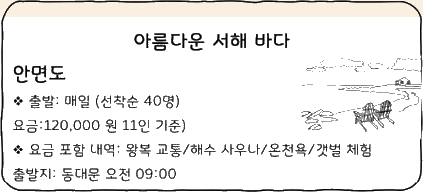
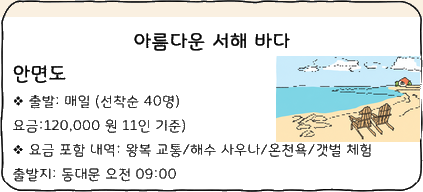
SET11: colourise Q12 flyer illustration

Changed region(s): [[0.6454, 0.2812, 1.0, 0.75]]

diff --git a/ubt-new/sets/2025_SET11/data.js b/ubt-new/sets/2025_SET11/data.js
@@ -1,1 +1,1 @@
-UBT.set({"tag":"2025_SET11","title":"វិញ្ញាសាទី ១១","questions":[{"n":1,"prompt":"다음 그림을 보고 맞는 단어나 문장을 고르십시오.","body":"","options":[{"kind":"text","text":"바구니입니다.","art":null},{"kind":"text","text":"마대입니다.","art":null},{"kind":"text","text":"비닐 봉투입니다.","art":null},{"kind":"text","text":"종량제 봉투입니다.","art":null}],"a":2,"art":"q/01_stem.png?v=cba314088ba745d8"},{"n":2,"prompt":"다음 그림을 보고 맞는 단어나 문장을 고르십시오.","body":"","options":[{"kind":"text","text":"굴착기로 흙을 파고 있습니다.","art":null},{"kind":"text","text":"굴착기로 흙을 쌓고 있습니다.","art":null},{"kind":"text","text":"지게차로 흙을 파고 있습니다.","art":null},{"kind":"text","text":"지게차로 흙을 쌓고 있습니다.","art":null}],"a":2,"art":"q/02_stem.png?v=a890930f47af4b02"},{"n":3,"prompt":"다음 질문에 답하십시오.","body":"다음 단어와 관계있는 것은 고르십시오.\n음담패설","options":[{"kind":"text","text":"성범죄","art":null},{"kind":"text","text":"성인식","art":null},{"kind":"text","text":"성상담","art":null},{"kind":"text","text":"성교육","art":null}],"a":1,"art":null},{"n":4,"prompt":"다음 질문에 답하십시오.","body":"다음 단어의 반댓말은 무엇입니까?\n분리하다","options":[{"kind":"text","text":"분류하다","art":null},{"kind":"text","text":"혼합하다","art":null},{"kind":"text","text":"확대하다","art":null},{"kind":"text","text":"적합하다","art":null}],"a":2,"art":null},{"n":5,"prompt":"빈칸에 들어갈 가장 알맞은 것을 고르십시오.","body":"직장 동료에게 농담을 했습니다. 그런데 내 농담을 듣고 직장 동료의 ________이/가 안 좋았습니다. 내 농담이 불쾌하다고 해서 빨리 사과했습니다.","options":[{"kind":"text","text":"얼굴","art":null},{"kind":"text","text":"표정","art":null},{"kind":"text","text":"안색","art":null},{"kind":"text","text":"성격","art":null}],"a":2,"art":null},{"n":6,"prompt":"빈칸에 들어갈 가장 알맞은 것을 고르십시오.","body":"친구한테 빌린 돈을 갚으려고 통장을 ______ 잔액이 부족했습니다. 그래서 이번 달 월급을 받으면 갚기로 했습니다.","options":[{"kind":"text","text":"조회해 보니","art":null},{"kind":"text","text":"대출해 보니","art":null},{"kind":"text","text":"조회하고 나서","art":null},{"kind":"text","text":"대출하고 나서","art":null}],"a":4,"art":null},{"n":7,"prompt":"빈칸에 들어갈 가장 알맞은 것을 고르십시오.","body":"등산은 한국 사람들이 즐겨 하는 ______ 활동입니다. 주말이나 휴일에 가까운 산으로 등산하러 가는 사람들을 많이 볼 수 있습니다.","options":[{"kind":"text","text":"기념","art":null},{"kind":"text","text":"직업","art":null},{"kind":"text","text":"회식","art":null},{"kind":"text","text":"여가","art":null}],"a":4,"art":null},{"n":8,"prompt":"빈칸에 들어갈 가장 알맞은 것을 고르십시오.","body":"이번 일요일에 집에서 해야 할 일이 많습니다. 제일 먼저 침대가 ______.","options":[{"kind":"text","text":"오래되니까","art":null},{"kind":"text","text":"오래되다가","art":null},{"kind":"text","text":"사용되니까","art":null},{"kind":"text","text":"사용되다가","art":null}],"a":1,"art":null},{"n":9,"prompt":"다음 질문에 답하십시오.","body":"밑줄 친 부분이 맞는 문장을 고르십시오.","options":[{"kind":"text","text":"지하철을 타서 회사에 출근해요.","art":null,"marks":[{"type":"underline","start":5,"end":7}]},{"kind":"text","text":"술을 마셔서 운전할 줄 몰라요.","art":null,"marks":[{"type":"underline","start":7,"end":16}]},{"kind":"text","text":"한국어를 배우려고 센터에 가세요.","art":null,"marks":[{"type":"underline","start":5,"end":9}]},{"kind":"text","text":"미술관에 음식물을 반입할 수 없어요.","art":null,"marks":[{"type":"underline","start":10,"end":19}]}],"a":4,"art":null},{"n":10,"prompt":"다음 질문에 답하십시오.","body":"이 표지는 무슨 뜻입니까?\n술에 취한 사람은 들어가지 마세요.","options":[{"kind":"picture","text":"","art":"q/10_o1.png?v=3014f0a62c2a1527"},{"kind":"picture","text":"","art":"q/10_o2.png?v=1e692d0e1a30ca7a"},{"kind":"picture","text":"","art":"q/10_o3.png?v=bec58bc3f053acbe"},{"kind":"picture","text":"","art":"q/10_o4.png?v=42d220e2ef981381"}],"a":1,"art":null},{"n":11,"prompt":"다음 질문에 답하십시오.","body":"다음 그래프에 대한 가장 알맞은 것을 고르십시오.","options":[{"kind":"text","text":"아파트에 사는 사람이 많지 않습니다.","art":null},{"kind":"text","text":"기숙사에 사는 사람들이 두 번째 적습니다.","art":null},{"kind":"text","text":"자취방과 아파트에 사는 사람이 거의 같습니다.","art":null},{"kind":"text","text":"아파트에 사는 사람들이 절반 넘지 않습니다.","art":null}],"a":4,"art":"q/11_stem.png?v=cf201e39615e49e4"},{"n":12,"prompt":"다음 질문에 답하십시오.","body":"다음 글을 읽고 내용과 같은 것을 고르십시오.","options":[{"kind":"text","text":"이 상품은 외국인들을 위해 만 가능합니다.","art":null},{"kind":"text","text":"40명이 같이 출발하면 120,000원 내야 합니다.","art":null},{"kind":"text","text":"갯벌 체험하고 온천 물로 목욕할 수 있습니다.","art":null},{"kind":"text","text":"동대문에서 오후 9시에 안면도로 출발합니다.","art":null}],"a":3,"art":"q/12_stem.png?v=a2f33c8c388fabfa"},{"n":13,"prompt":"빈칸에 들어갈 가장 알맞은 것을 고르십시오.","body":"내일은 한국 식당에서 저녁을 먹으러 ______ 같이 갈까요?","options":[{"kind":"text","text":"팔 건데","art":null},{"kind":"text","text":"파는 대신에","art":null},{"kind":"text","text":"가는 대신에","art":null},{"kind":"text","text":"갈 건데","art":null}],"a":4,"art":null},{"n":14,"prompt":"빈칸에 들어갈 가장 알맞은 것을 고르십시오.","body":"저는 한국 사람이지만 영국에서 ______. 그래서 한국어와 영어를 모두 잘합니다.","options":[{"kind":"text","text":"살고 싶습니다","art":null},{"kind":"text","text":"사는 것 같습니다","art":null},{"kind":"text","text":"살고 있습니다","art":null},{"kind":"text","text":"사면 됩니다","art":null}],"a":3,"art":null},{"n":15,"prompt":"다음 글을 읽고 무엇에 대한 글인지 고르십시오.","body":"다음 글을 읽고 무엇에 대한 글인지 고르십시오.\n몽골의 전통집은 '게르'라고 합니다. '게르'는 나무로 벽을 세우고, 그 위에 가죽으로 만든 '펠트'를 씌워서 만든 집입니다. '게르'는 겨울에는 바람을 막아 주어서 따뜻하고, 여름에는 햇빛을 막아 주어서 시원합니다.","options":[{"kind":"text","text":"가죽","art":null},{"kind":"text","text":"주거","art":null},{"kind":"text","text":"나무","art":null},{"kind":"text","text":"시설","art":null}],"a":2,"art":null},{"n":16,"prompt":"다음 글을 읽고 무엇에 대한 글인지 고르십시오.","body":"다음 글을 읽고 무엇에 대한 글인지 고르십시오.\n몽골의 전통집은 '게르'라고 합니다. '게르'는 나무로 벽을 세우고, 그 위에 가죽으로 만든 '펠트'를 씌워서 만든 집입니다. '게르'는 겨울에는 바람을 막아 주어서 따뜻하고, 여름에는 햇빛을 막아 주어서 시원합니다.","options":[{"kind":"text","text":"가죽","art":null},{"kind":"text","text":"주거","art":null},{"kind":"text","text":"나무","art":null},{"kind":"text","text":"시설","art":null}],"a":3,"art":null},{"n":17,"prompt":"다음 글을 읽고 내용과 같은 것을 고르십시오.","body":"한국은 아시아 동쪽의 한반도에 있습니다. 한반도의 북쪽에 중국과 러시아가 있고 동쪽에 있는 바다를 건너면 일본이 있습니다. 한국의 다른 이름은 대한민국이고 수도는 서울입니다. 서울은 한반도의 중심에 있습니다. 인구는 오천만 명 정도인데 천만 명 정도가 서울에 삽니다. 한국에는 산이 많습니다. 한국의 70%가 산이지만 산의 높이가 아주 높지는 않습니다.","options":[{"kind":"text","text":"한국의 수도는 대한민국입니다.","art":null},{"kind":"text","text":"한국에는 높은 산이 아주 많습니다.","art":null},{"kind":"text","text":"한국은 아시아 북쪽에 있습니다.","art":null},{"kind":"text","text":"한국에는 약 오천만 명이 삽니다.","art":null}],"a":4,"art":null},{"n":18,"prompt":"다음 글을 읽고 내용과 같은 것을 고르십시오.","body":"한국에는 막걸리와 소주 두 가지 유명한 술이 있어요. 막걸리는 쌀과 물을 섞어서 만든 부드럽고 가벼운 맛이에요. 발효 과정으로 만든 이 술은 건강에도 좋아요. 여름에 특히 인기가 많아요. 소주는 쌀, 보리, 감자 등을 사용해서 깔끔하고 순수한 맛이에요. 다양한 자리와 모임에서 가장 많이 마시는 술 중 하나입니다. 요즘은 이런 술의 다양한 맛과 향을 즐길 수 있어요. 한국 문화와 역사에서 중요한 역할을 하는 전통 술이에요.","options":[{"kind":"text","text":"한국에는 막걸리만 유명해요.","art":null},{"kind":"text","text":"요즘은 이런 술을 별로 안 마십니다.","art":null},{"kind":"text","text":"막걸리는 여름철에 인기가 많아요.","art":null},{"kind":"text","text":"소주는 다른 맛과 향을 즐길 수 없어요.","art":null}],"a":3,"art":null},{"n":19,"prompt":"다음 설명에 알맞은 어휘를 고르십시오.","body":"사람들이 모여서 여러 운동 경기를 함께 하고 즐기는 행사입니다.","options":[{"kind":"text","text":"단합 대회","art":null},{"kind":"text","text":"등반 대회","art":null},{"kind":"text","text":"체육 대회","art":null},{"kind":"text","text":"야유회","art":null}],"a":3,"art":null},{"n":20,"prompt":"다음 설명에 알맞은 어휘를 고르십시오.","body":"사람들이 모여서 여러 운동 경기를 함께 하고 즐기는 행사입니다.","options":[{"kind":"text","text":"단합 대회","art":null},{"kind":"text","text":"등반 대회","art":null},{"kind":"text","text":"체육 대회","art":null},{"kind":"text","text":"야유회","art":null}],"a":3,"art":null},{"n":21,"prompt":"다음을 듣고 빈칸에 알맞은 것을 고르십시오.","body":"_____을 듣고 있어요.","options":[{"kind":"text","text":"케이팝","art":null},{"kind":"text","text":"힙합","art":null},{"kind":"text","text":"클래식","art":null},{"kind":"text","text":"트로트","art":null}],"a":1,"m":"audio/21.mp3?v=0319d9414db6600f","art":null},{"n":22,"prompt":"다음을 듣고 빈칸에 알맞은 것을 고르십시오.","body":"유니폼 파는 사이트 좀 ______ 주세요.","options":[{"kind":"text","text":"가르쳐","art":null},{"kind":"text","text":"기다려","art":null},{"kind":"text","text":"알려","art":null},{"kind":"text","text":"만들어","art":null}],"a":1,"m":"audio/22.mp3","art":null},{"n":23,"prompt":"들은 것을 고르십시오.","body":"","options":[{"kind":"picture","text":"","art":"q/23_o1.png?v=b5fbc7797d140a69"},{"kind":"picture","text":"","art":"q/23_o2.png?v=5a61b53bd470dad7"},{"kind":"picture","text":"","art":"q/23_o3.png?v=ec2c9479f939b983"},{"kind":"picture","text":"","art":"q/23_o4.png?v=95a1f19bcbed0982"}],"a":3,"m":"audio/23.mp3","art":null},{"n":24,"prompt":"들은 것을 고르십시오.","body":"","options":[{"kind":"picture","text":"","art":"q/24_o1.png?v=ee73ca99919b3dd4"},{"kind":"picture","text":"","art":"q/24_o2.png?v=a9b8149955c9bf77"},{"kind":"picture","text":"","art":"q/24_o3.png?v=570dd338c0ea56a2"},{"kind":"picture","text":"","art":"q/24_o4.png?v=a9907ebe7afa2c0a"}],"a":4,"m":"audio/24.mp3?v=db95f62ebed09eee","art":null},{"n":25,"prompt":"그림을 보고 알맞은 대답을 고르십시오.","body":"이것은 무엇입니까?","options":[{"kind":"text","text":"배달 앱입니다.","art":null,"audio":"audio/25_o1.mp3?v=9736fe892cf6e2c9"},{"kind":"text","text":"모바일 뱅킹입니다.","art":null,"audio":"audio/25_o2.mp3?v=443eda83c6d655d6"},{"kind":"text","text":"SNS입니다.","art":null,"audio":"audio/25_o3.mp3?v=793d1f42e17d9fb3"},{"kind":"text","text":"홈페이지입니다.","art":null,"audio":"audio/25_o4.mp3?v=5c6a63258d5e09d0"}],"a":2,"art":"q/25_stem.png?v=1217f32f0b5941da","m":"audio/25.mp3?v=76011088f3d3597d"},{"n":26,"prompt":"그림을 보고 알맞은 대답을 고르십시오.","body":"여기는 어디입니까?","options":[{"kind":"text","text":"구내식당입니다.","art":null,"audio":"audio/26_o1.mp3?v=5dae578128521b39"},{"kind":"text","text":"커피숍입니다.","art":null,"audio":"audio/26_o2.mp3?v=2a7e2875131fe2b4"},{"kind":"text","text":"빵집입니다.","art":null,"audio":"audio/26_o3.mp3?v=c8c14fb8e76a37a3"},{"kind":"text","text":"편의점입니다.","art":null,"audio":"audio/26_o4.mp3?v=706accce681bf67b"}],"a":1,"art":"q/26_stem.png?v=9db09bd1e534d6b9","m":"audio/26.mp3?v=8d3dd2dc04e76458"},{"n":27,"prompt":"그림을 보고 알맞은 대답을 고르십시오.","body":"이 사람은 무엇을 하고 있습니까?","options":[{"kind":"text","text":"나무를 자르고 있습니다.","art":null,"audio":"audio/27_o1.mp3?v=1a8847cd485a5c31"},{"kind":"text","text":"나무를 운반하고 있습니다.","art":null,"audio":"audio/27_o2.mp3?v=23c25ecc28125de7"},{"kind":"text","text":"나무를 차에 싣고 있습니다.","art":null,"audio":"audio/27_o3.mp3?v=b98d730895869280"},{"kind":"text","text":"나무를 쌓고 있습니다.","art":null,"audio":"audio/27_o4.mp3?v=73cc324b3513dfa8"}],"a":4,"art":"q/27_stem.png?v=6b935aa44add8533","m":"audio/27.mp3?v=81742c3e92d099d9"},{"n":28,"prompt":"그림을 보고 알맞은 대답을 고르십시오.","body":"배가 얼마나 있습니까?","options":[{"kind":"text","text":"한 개 있습니다.","art":null,"audio":"audio/28_o1.mp3?v=3e4d97220ef8c91f"},{"kind":"text","text":"두 개 있습니다.","art":null,"audio":"audio/28_o2.mp3?v=fd701c3ba1d36ee7"},{"kind":"text","text":"한 척 있습니다.","art":null,"audio":"audio/28_o3.mp3?v=781118bae445c000"},{"kind":"text","text":"두 척 있습니다.","art":null,"audio":"audio/28_o4.mp3?v=406f54d6ccdfb1aa"}],"a":4,"art":"q/28_stem.png?v=dc2934a7144d3015","m":"audio/28.mp3?v=5f44925d1e221449"},{"n":29,"prompt":"그림을 보고 알맞은 대답을 고르십시오.","body":"창고는 어디에 있습니까?","options":[{"kind":"text","text":"식당 뒤에 있습니다.","art":null,"audio":"audio/29_o1.mp3?v=4cafcd830c9340ab"},{"kind":"text","text":"작업장 밖에 있습니다.","art":null,"audio":"audio/29_o2.mp3?v=fb3cccc5481a0814"},{"kind":"text","text":"사무실 앞에 있습니다.","art":null,"audio":"audio/29_o3.mp3?v=81c84fcd96dc6b96"},{"kind":"text","text":"관리실 옆에 있습니다.","art":null,"audio":"audio/29_o4.mp3?v=675cba136b858805"}],"a":3,"art":"q/29_stem.png?v=d0d40ab1026c9a1c","m":"audio/29.mp3?v=8f60942b466849f4"},{"n":30,"prompt":"다음을 듣고 질문에 알맞은 대답을 고르십시오.","body":"","options":[{"kind":"text","text":"작년부터 담배를 끊었어요.","art":null},{"kind":"text","text":"기숙사에는 담배를 피우는 사람이 많아요.","art":null},{"kind":"text","text":"여기 있는 사람들은 응원단이에요.","art":null},{"kind":"text","text":"여기에서 잠깐 기다려 주세요.","art":null}],"a":3,"m":"audio/30.mp3?v=6d2bb5d9cd78b726","art":null},{"n":31,"prompt":"다음을 듣고 질문에 알맞은 대답을 고르십시오.","body":"","options":[{"kind":"text","text":"작업이 끝나면 전원을 차단해야 돼요.","art":null},{"kind":"text","text":"전기 요금이 지난달보다 적게 나왔어요.","art":null},{"kind":"text","text":"작업을 시작하기 전에 기계를 점검하세요.","art":null},{"kind":"text","text":"전원이 흐르고 있으니까 조심하세요.","art":null}],"a":1,"m":"audio/31.mp3?v=fe2276c5dffed6b3","art":null},{"n":32,"prompt":"다음을 듣고 질문에 알맞은 대답을 고르십시오.","body":"","options":[{"kind":"text","text":"도서관에 갈 거예요.","art":null},{"kind":"text","text":"연필하고 공책을 샀어요.","art":null},{"kind":"text","text":"동대문 시장에서 샀어요.","art":null},{"kind":"text","text":"내일 서점에 갈 거예요.","art":null}],"a":3,"m":"audio/32.mp3?v=918765066f1c3e4e","art":null},{"n":33,"prompt":"다음을 듣고 질문에 알맞은 대답을 고르십시오.","body":"","options":[{"kind":"text","text":"체류 기간이 만료되기 전까지 연장하세요.","art":null},{"kind":"text","text":"비자가 아직 유효해서 괜찮아요.","art":null},{"kind":"text","text":"기간이 많이 남았으니까 아직 안 했어요.","art":null},{"kind":"text","text":"계약 기간을 연장하러 고용센터에 가요.","art":null}],"a":3,"m":"audio/33.mp3?v=31319e7bfeb6a9c6","art":null},{"n":34,"prompt":"다음을 듣고 이어지는 말을 고르십시오.","body":"","options":[{"kind":"text","text":"앞으로 한 달간은 눈이 온다고 했어요.","art":null},{"kind":"text","text":"날씨 때문에 오늘 작업을 못 했어요.","art":null},{"kind":"text","text":"날씨도 좋은데 우리 산책할까요?","art":null},{"kind":"text","text":"날씨가 안 좋을까 봐 걱정이에요.","art":null}],"a":3,"m":"audio/34.mp3?v=51f71f15a847df26","art":null},{"n":35,"prompt":"다음을 듣고 이어지는 말을 고르십시오.","body":"","options":[{"kind":"text","text":"앞으로 한 달간은 눈이 온다고 했어요.","art":null},{"kind":"text","text":"날씨 때문에 오늘 작업을 못 했어요.","art":null},{"kind":"text","text":"날씨도 좋은데 우리 산책할까요?","art":null},{"kind":"text","text":"날씨가 안 좋을까 봐 걱정이에요.","art":null}],"a":4,"m":"audio/35.mp3?v=a85d61a4649c7a48","art":null},{"n":36,"prompt":"잘 듣고 들은 내용과 관계있는 그림을 고르십시오.","body":"","options":[{"kind":"picture","text":"","art":"q/36_o1.png?v=c9305e2e72775ced"},{"kind":"picture","text":"","art":"q/36_o2.png?v=038044e52f460868"},{"kind":"picture","text":"","art":"q/36_o3.png?v=e4d1623a35e0a01d"},{"kind":"picture","text":"","art":"q/36_o4.png?v=2e6551c0735bf607"}],"a":3,"m":"audio/36.mp3?v=73760c546186ba56","art":null},{"n":37,"prompt":"잘 듣고 들은 내용과 관계있는 그림을 고르십시오.","body":"","options":[{"kind":"picture","text":"","art":"q/37_o1.png?v=91ebe694a475fdb0"},{"kind":"picture","text":"","art":"q/37_o2.png?v=a7a28ae9801eabd8"},{"kind":"picture","text":"","art":"q/37_o3.png?v=303e059746571603"},{"kind":"picture","text":"","art":"q/37_o4.png?v=5c52909b4dbd741d"}],"a":1,"m":"audio/37.mp3?v=edf3897970a0db7c","art":null},{"n":38,"prompt":"이야기를 듣고 질문에 알맞은 대답을 고르십시오.","body":"두 사람이 무엇에 대해 이야기하고 있는지 고르십시오.","options":[{"kind":"text","text":"눈 건강","art":null},{"kind":"text","text":"컴퓨터의 단점","art":null},{"kind":"text","text":"안경을 쓰는 이유","art":null},{"kind":"text","text":"컴퓨터로 할 수 있는 일","art":null}],"a":1,"m":"audio/38.mp3","art":null},{"n":39,"prompt":"이야기를 듣고 질문에 알맞은 대답을 고르십시오.","body":"대화를 듣고 내용과 같은 것을 고르십시오.","options":[{"kind":"text","text":"남자는 여자를 걱정하고 있습니다.","art":null},{"kind":"text","text":"여자는 몸이 아파서 늦게 왔습니다.","art":null},{"kind":"text","text":"두 사람은 내일 아침에 만날 겁니다.","art":null},{"kind":"text","text":"두 사람은 택시를 기다리고 있습니다.","art":null}],"a":1,"m":"audio/39.mp3","art":null},{"n":40,"prompt":"이야기를 듣고 질문에 알맞은 대답을 고르십시오.","body":"대화를 듣고 내용과 같은 것을 고르십시오.","options":[{"kind":"text","text":"남자는 여자에게 사진을 선물했습니다.","art":null},{"kind":"text","text":"여자는 사진 찍는 것을 안 좋아합니다.","art":null},{"kind":"text","text":"남자는 사진 찍는 것을 배우고 있습니다.","art":null},{"kind":"text","text":"여자는 주말에 사진을 찍으러 갈 겁니다.","art":null}],"a":4,"m":"audio/40.mp3","art":null}]});
+UBT.set({"tag":"2025_SET11","title":"វិញ្ញាសាទី ១១","questions":[{"n":1,"prompt":"다음 그림을 보고 맞는 단어나 문장을 고르십시오.","body":"","options":[{"kind":"text","text":"바구니입니다.","art":null},{"kind":"text","text":"마대입니다.","art":null},{"kind":"text","text":"비닐 봉투입니다.","art":null},{"kind":"text","text":"종량제 봉투입니다.","art":null}],"a":2,"art":"q/01_stem.png?v=cba314088ba745d8"},{"n":2,"prompt":"다음 그림을 보고 맞는 단어나 문장을 고르십시오.","body":"","options":[{"kind":"text","text":"굴착기로 흙을 파고 있습니다.","art":null},{"kind":"text","text":"굴착기로 흙을 쌓고 있습니다.","art":null},{"kind":"text","text":"지게차로 흙을 파고 있습니다.","art":null},{"kind":"text","text":"지게차로 흙을 쌓고 있습니다.","art":null}],"a":2,"art":"q/02_stem.png?v=a890930f47af4b02"},{"n":3,"prompt":"다음 질문에 답하십시오.","body":"다음 단어와 관계있는 것은 고르십시오.\n음담패설","options":[{"kind":"text","text":"성범죄","art":null},{"kind":"text","text":"성인식","art":null},{"kind":"text","text":"성상담","art":null},{"kind":"text","text":"성교육","art":null}],"a":1,"art":null},{"n":4,"prompt":"다음 질문에 답하십시오.","body":"다음 단어의 반댓말은 무엇입니까?\n분리하다","options":[{"kind":"text","text":"분류하다","art":null},{"kind":"text","text":"혼합하다","art":null},{"kind":"text","text":"확대하다","art":null},{"kind":"text","text":"적합하다","art":null}],"a":2,"art":null},{"n":5,"prompt":"빈칸에 들어갈 가장 알맞은 것을 고르십시오.","body":"직장 동료에게 농담을 했습니다. 그런데 내 농담을 듣고 직장 동료의 ________이/가 안 좋았습니다. 내 농담이 불쾌하다고 해서 빨리 사과했습니다.","options":[{"kind":"text","text":"얼굴","art":null},{"kind":"text","text":"표정","art":null},{"kind":"text","text":"안색","art":null},{"kind":"text","text":"성격","art":null}],"a":2,"art":null},{"n":6,"prompt":"빈칸에 들어갈 가장 알맞은 것을 고르십시오.","body":"친구한테 빌린 돈을 갚으려고 통장을 ______ 잔액이 부족했습니다. 그래서 이번 달 월급을 받으면 갚기로 했습니다.","options":[{"kind":"text","text":"조회해 보니","art":null},{"kind":"text","text":"대출해 보니","art":null},{"kind":"text","text":"조회하고 나서","art":null},{"kind":"text","text":"대출하고 나서","art":null}],"a":4,"art":null},{"n":7,"prompt":"빈칸에 들어갈 가장 알맞은 것을 고르십시오.","body":"등산은 한국 사람들이 즐겨 하는 ______ 활동입니다. 주말이나 휴일에 가까운 산으로 등산하러 가는 사람들을 많이 볼 수 있습니다.","options":[{"kind":"text","text":"기념","art":null},{"kind":"text","text":"직업","art":null},{"kind":"text","text":"회식","art":null},{"kind":"text","text":"여가","art":null}],"a":4,"art":null},{"n":8,"prompt":"빈칸에 들어갈 가장 알맞은 것을 고르십시오.","body":"이번 일요일에 집에서 해야 할 일이 많습니다. 제일 먼저 침대가 ______.","options":[{"kind":"text","text":"오래되니까","art":null},{"kind":"text","text":"오래되다가","art":null},{"kind":"text","text":"사용되니까","art":null},{"kind":"text","text":"사용되다가","art":null}],"a":1,"art":null},{"n":9,"prompt":"다음 질문에 답하십시오.","body":"밑줄 친 부분이 맞는 문장을 고르십시오.","options":[{"kind":"text","text":"지하철을 타서 회사에 출근해요.","art":null,"marks":[{"type":"underline","start":5,"end":7}]},{"kind":"text","text":"술을 마셔서 운전할 줄 몰라요.","art":null,"marks":[{"type":"underline","start":7,"end":16}]},{"kind":"text","text":"한국어를 배우려고 센터에 가세요.","art":null,"marks":[{"type":"underline","start":5,"end":9}]},{"kind":"text","text":"미술관에 음식물을 반입할 수 없어요.","art":null,"marks":[{"type":"underline","start":10,"end":19}]}],"a":4,"art":null},{"n":10,"prompt":"다음 질문에 답하십시오.","body":"이 표지는 무슨 뜻입니까?\n술에 취한 사람은 들어가지 마세요.","options":[{"kind":"picture","text":"","art":"q/10_o1.png?v=3014f0a62c2a1527"},{"kind":"picture","text":"","art":"q/10_o2.png?v=1e692d0e1a30ca7a"},{"kind":"picture","text":"","art":"q/10_o3.png?v=bec58bc3f053acbe"},{"kind":"picture","text":"","art":"q/10_o4.png?v=42d220e2ef981381"}],"a":1,"art":null},{"n":11,"prompt":"다음 질문에 답하십시오.","body":"다음 그래프에 대한 가장 알맞은 것을 고르십시오.","options":[{"kind":"text","text":"아파트에 사는 사람이 많지 않습니다.","art":null},{"kind":"text","text":"기숙사에 사는 사람들이 두 번째 적습니다.","art":null},{"kind":"text","text":"자취방과 아파트에 사는 사람이 거의 같습니다.","art":null},{"kind":"text","text":"아파트에 사는 사람들이 절반 넘지 않습니다.","art":null}],"a":4,"art":"q/11_stem.png?v=cf201e39615e49e4"},{"n":12,"prompt":"다음 질문에 답하십시오.","body":"다음 글을 읽고 내용과 같은 것을 고르십시오.","options":[{"kind":"text","text":"이 상품은 외국인들을 위해 만 가능합니다.","art":null},{"kind":"text","text":"40명이 같이 출발하면 120,000원 내야 합니다.","art":null},{"kind":"text","text":"갯벌 체험하고 온천 물로 목욕할 수 있습니다.","art":null},{"kind":"text","text":"동대문에서 오후 9시에 안면도로 출발합니다.","art":null}],"a":3,"art":"q/12_stem.png?v=c6a38687569791f1"},{"n":13,"prompt":"빈칸에 들어갈 가장 알맞은 것을 고르십시오.","body":"내일은 한국 식당에서 저녁을 먹으러 ______ 같이 갈까요?","options":[{"kind":"text","text":"팔 건데","art":null},{"kind":"text","text":"파는 대신에","art":null},{"kind":"text","text":"가는 대신에","art":null},{"kind":"text","text":"갈 건데","art":null}],"a":4,"art":null},{"n":14,"prompt":"빈칸에 들어갈 가장 알맞은 것을 고르십시오.","body":"저는 한국 사람이지만 영국에서 ______. 그래서 한국어와 영어를 모두 잘합니다.","options":[{"kind":"text","text":"살고 싶습니다","art":null},{"kind":"text","text":"사는 것 같습니다","art":null},{"kind":"text","text":"살고 있습니다","art":null},{"kind":"text","text":"사면 됩니다","art":null}],"a":3,"art":null},{"n":15,"prompt":"다음 글을 읽고 무엇에 대한 글인지 고르십시오.","body":"다음 글을 읽고 무엇에 대한 글인지 고르십시오.\n몽골의 전통집은 '게르'라고 합니다. '게르'는 나무로 벽을 세우고, 그 위에 가죽으로 만든 '펠트'를 씌워서 만든 집입니다. '게르'는 겨울에는 바람을 막아 주어서 따뜻하고, 여름에는 햇빛을 막아 주어서 시원합니다.","options":[{"kind":"text","text":"가죽","art":null},{"kind":"text","text":"주거","art":null},{"kind":"text","text":"나무","art":null},{"kind":"text","text":"시설","art":null}],"a":2,"art":null},{"n":16,"prompt":"다음 글을 읽고 무엇에 대한 글인지 고르십시오.","body":"다음 글을 읽고 무엇에 대한 글인지 고르십시오.\n몽골의 전통집은 '게르'라고 합니다. '게르'는 나무로 벽을 세우고, 그 위에 가죽으로 만든 '펠트'를 씌워서 만든 집입니다. '게르'는 겨울에는 바람을 막아 주어서 따뜻하고, 여름에는 햇빛을 막아 주어서 시원합니다.","options":[{"kind":"text","text":"가죽","art":null},{"kind":"text","text":"주거","art":null},{"kind":"text","text":"나무","art":null},{"kind":"text","text":"시설","art":null}],"a":3,"art":null},{"n":17,"prompt":"다음 글을 읽고 내용과 같은 것을 고르십시오.","body":"한국은 아시아 동쪽의 한반도에 있습니다. 한반도의 북쪽에 중국과 러시아가 있고 동쪽에 있는 바다를 건너면 일본이 있습니다. 한국의 다른 이름은 대한민국이고 수도는 서울입니다. 서울은 한반도의 중심에 있습니다. 인구는 오천만 명 정도인데 천만 명 정도가 서울에 삽니다. 한국에는 산이 많습니다. 한국의 70%가 산이지만 산의 높이가 아주 높지는 않습니다.","options":[{"kind":"text","text":"한국의 수도는 대한민국입니다.","art":null},{"kind":"text","text":"한국에는 높은 산이 아주 많습니다.","art":null},{"kind":"text","text":"한국은 아시아 북쪽에 있습니다.","art":null},{"kind":"text","text":"한국에는 약 오천만 명이 삽니다.","art":null}],"a":4,"art":null},{"n":18,"prompt":"다음 글을 읽고 내용과 같은 것을 고르십시오.","body":"한국에는 막걸리와 소주 두 가지 유명한 술이 있어요. 막걸리는 쌀과 물을 섞어서 만든 부드럽고 가벼운 맛이에요. 발효 과정으로 만든 이 술은 건강에도 좋아요. 여름에 특히 인기가 많아요. 소주는 쌀, 보리, 감자 등을 사용해서 깔끔하고 순수한 맛이에요. 다양한 자리와 모임에서 가장 많이 마시는 술 중 하나입니다. 요즘은 이런 술의 다양한 맛과 향을 즐길 수 있어요. 한국 문화와 역사에서 중요한 역할을 하는 전통 술이에요.","options":[{"kind":"text","text":"한국에는 막걸리만 유명해요.","art":null},{"kind":"text","text":"요즘은 이런 술을 별로 안 마십니다.","art":null},{"kind":"text","text":"막걸리는 여름철에 인기가 많아요.","art":null},{"kind":"text","text":"소주는 다른 맛과 향을 즐길 수 없어요.","art":null}],"a":3,"art":null},{"n":19,"prompt":"다음 설명에 알맞은 어휘를 고르십시오.","body":"사람들이 모여서 여러 운동 경기를 함께 하고 즐기는 행사입니다.","options":[{"kind":"text","text":"단합 대회","art":null},{"kind":"text","text":"등반 대회","art":null},{"kind":"text","text":"체육 대회","art":null},{"kind":"text","text":"야유회","art":null}],"a":3,"art":null},{"n":20,"prompt":"다음 설명에 알맞은 어휘를 고르십시오.","body":"사람들이 모여서 여러 운동 경기를 함께 하고 즐기는 행사입니다.","options":[{"kind":"text","text":"단합 대회","art":null},{"kind":"text","text":"등반 대회","art":null},{"kind":"text","text":"체육 대회","art":null},{"kind":"text","text":"야유회","art":null}],"a":3,"art":null},{"n":21,"prompt":"다음을 듣고 빈칸에 알맞은 것을 고르십시오.","body":"_____을 듣고 있어요.","options":[{"kind":"text","text":"케이팝","art":null},{"kind":"text","text":"힙합","art":null},{"kind":"text","text":"클래식","art":null},{"kind":"text","text":"트로트","art":null}],"a":1,"m":"audio/21.mp3?v=0319d9414db6600f","art":null},{"n":22,"prompt":"다음을 듣고 빈칸에 알맞은 것을 고르십시오.","body":"유니폼 파는 사이트 좀 ______ 주세요.","options":[{"kind":"text","text":"가르쳐","art":null},{"kind":"text","text":"기다려","art":null},{"kind":"text","text":"알려","art":null},{"kind":"text","text":"만들어","art":null}],"a":1,"m":"audio/22.mp3","art":null},{"n":23,"prompt":"들은 것을 고르십시오.","body":"","options":[{"kind":"picture","text":"","art":"q/23_o1.png?v=b5fbc7797d140a69"},{"kind":"picture","text":"","art":"q/23_o2.png?v=5a61b53bd470dad7"},{"kind":"picture","text":"","art":"q/23_o3.png?v=ec2c9479f939b983"},{"kind":"picture","text":"","art":"q/23_o4.png?v=95a1f19bcbed0982"}],"a":3,"m":"audio/23.mp3","art":null},{"n":24,"prompt":"들은 것을 고르십시오.","body":"","options":[{"kind":"picture","text":"","art":"q/24_o1.png?v=ee73ca99919b3dd4"},{"kind":"picture","text":"","art":"q/24_o2.png?v=a9b8149955c9bf77"},{"kind":"picture","text":"","art":"q/24_o3.png?v=570dd338c0ea56a2"},{"kind":"picture","text":"","art":"q/24_o4.png?v=a9907ebe7afa2c0a"}],"a":4,"m":"audio/24.mp3?v=db95f62ebed09eee","art":null},{"n":25,"prompt":"그림을 보고 알맞은 대답을 고르십시오.","body":"이것은 무엇입니까?","options":[{"kind":"text","text":"배달 앱입니다.","art":null,"audio":"audio/25_o1.mp3?v=9736fe892cf6e2c9"},{"kind":"text","text":"모바일 뱅킹입니다.","art":null,"audio":"audio/25_o2.mp3?v=443eda83c6d655d6"},{"kind":"text","text":"SNS입니다.","art":null,"audio":"audio/25_o3.mp3?v=793d1f42e17d9fb3"},{"kind":"text","text":"홈페이지입니다.","art":null,"audio":"audio/25_o4.mp3?v=5c6a63258d5e09d0"}],"a":2,"art":"q/25_stem.png?v=1217f32f0b5941da","m":"audio/25.mp3?v=76011088f3d3597d"},{"n":26,"prompt":"그림을 보고 알맞은 대답을 고르십시오.","body":"여기는 어디입니까?","options":[{"kind":"text","text":"구내식당입니다.","art":null,"audio":"audio/26_o1.mp3?v=5dae578128521b39"},{"kind":"text","text":"커피숍입니다.","art":null,"audio":"audio/26_o2.mp3?v=2a7e2875131fe2b4"},{"kind":"text","text":"빵집입니다.","art":null,"audio":"audio/26_o3.mp3?v=c8c14fb8e76a37a3"},{"kind":"text","text":"편의점입니다.","art":null,"audio":"audio/26_o4.mp3?v=706accce681bf67b"}],"a":1,"art":"q/26_stem.png?v=9db09bd1e534d6b9","m":"audio/26.mp3?v=8d3dd2dc04e76458"},{"n":27,"prompt":"그림을 보고 알맞은 대답을 고르십시오.","body":"이 사람은 무엇을 하고 있습니까?","options":[{"kind":"text","text":"나무를 자르고 있습니다.","art":null,"audio":"audio/27_o1.mp3?v=1a8847cd485a5c31"},{"kind":"text","text":"나무를 운반하고 있습니다.","art":null,"audio":"audio/27_o2.mp3?v=23c25ecc28125de7"},{"kind":"text","text":"나무를 차에 싣고 있습니다.","art":null,"audio":"audio/27_o3.mp3?v=b98d730895869280"},{"kind":"text","text":"나무를 쌓고 있습니다.","art":null,"audio":"audio/27_o4.mp3?v=73cc324b3513dfa8"}],"a":4,"art":"q/27_stem.png?v=6b935aa44add8533","m":"audio/27.mp3?v=81742c3e92d099d9"},{"n":28,"prompt":"그림을 보고 알맞은 대답을 고르십시오.","body":"배가 얼마나 있습니까?","options":[{"kind":"text","text":"한 개 있습니다.","art":null,"audio":"audio/28_o1.mp3?v=3e4d97220ef8c91f"},{"kind":"text","text":"두 개 있습니다.","art":null,"audio":"audio/28_o2.mp3?v=fd701c3ba1d36ee7"},{"kind":"text","text":"한 척 있습니다.","art":null,"audio":"audio/28_o3.mp3?v=781118bae445c000"},{"kind":"text","text":"두 척 있습니다.","art":null,"audio":"audio/28_o4.mp3?v=406f54d6ccdfb1aa"}],"a":4,"art":"q/28_stem.png?v=dc2934a7144d3015","m":"audio/28.mp3?v=5f44925d1e221449"},{"n":29,"prompt":"그림을 보고 알맞은 대답을 고르십시오.","body":"창고는 어디에 있습니까?","options":[{"kind":"text","text":"식당 뒤에 있습니다.","art":null,"audio":"audio/29_o1.mp3?v=4cafcd830c9340ab"},{"kind":"text","text":"작업장 밖에 있습니다.","art":null,"audio":"audio/29_o2.mp3?v=fb3cccc5481a0814"},{"kind":"text","text":"사무실 앞에 있습니다.","art":null,"audio":"audio/29_o3.mp3?v=81c84fcd96dc6b96"},{"kind":"text","text":"관리실 옆에 있습니다.","art":null,"audio":"audio/29_o4.mp3?v=675cba136b858805"}],"a":3,"art":"q/29_stem.png?v=d0d40ab1026c9a1c","m":"audio/29.mp3?v=8f60942b466849f4"},{"n":30,"prompt":"다음을 듣고 질문에 알맞은 대답을 고르십시오.","body":"","options":[{"kind":"text","text":"작년부터 담배를 끊었어요.","art":null},{"kind":"text","text":"기숙사에는 담배를 피우는 사람이 많아요.","art":null},{"kind":"text","text":"여기 있는 사람들은 응원단이에요.","art":null},{"kind":"text","text":"여기에서 잠깐 기다려 주세요.","art":null}],"a":3,"m":"audio/30.mp3?v=6d2bb5d9cd78b726","art":null},{"n":31,"prompt":"다음을 듣고 질문에 알맞은 대답을 고르십시오.","body":"","options":[{"kind":"text","text":"작업이 끝나면 전원을 차단해야 돼요.","art":null},{"kind":"text","text":"전기 요금이 지난달보다 적게 나왔어요.","art":null},{"kind":"text","text":"작업을 시작하기 전에 기계를 점검하세요.","art":null},{"kind":"text","text":"전원이 흐르고 있으니까 조심하세요.","art":null}],"a":1,"m":"audio/31.mp3?v=fe2276c5dffed6b3","art":null},{"n":32,"prompt":"다음을 듣고 질문에 알맞은 대답을 고르십시오.","body":"","options":[{"kind":"text","text":"도서관에 갈 거예요.","art":null},{"kind":"text","text":"연필하고 공책을 샀어요.","art":null},{"kind":"text","text":"동대문 시장에서 샀어요.","art":null},{"kind":"text","text":"내일 서점에 갈 거예요.","art":null}],"a":3,"m":"audio/32.mp3?v=918765066f1c3e4e","art":null},{"n":33,"prompt":"다음을 듣고 질문에 알맞은 대답을 고르십시오.","body":"","options":[{"kind":"text","text":"체류 기간이 만료되기 전까지 연장하세요.","art":null},{"kind":"text","text":"비자가 아직 유효해서 괜찮아요.","art":null},{"kind":"text","text":"기간이 많이 남았으니까 아직 안 했어요.","art":null},{"kind":"text","text":"계약 기간을 연장하러 고용센터에 가요.","art":null}],"a":3,"m":"audio/33.mp3?v=31319e7bfeb6a9c6","art":null},{"n":34,"prompt":"다음을 듣고 이어지는 말을 고르십시오.","body":"","options":[{"kind":"text","text":"앞으로 한 달간은 눈이 온다고 했어요.","art":null},{"kind":"text","text":"날씨 때문에 오늘 작업을 못 했어요.","art":null},{"kind":"text","text":"날씨도 좋은데 우리 산책할까요?","art":null},{"kind":"text","text":"날씨가 안 좋을까 봐 걱정이에요.","art":null}],"a":3,"m":"audio/34.mp3?v=51f71f15a847df26","art":null},{"n":35,"prompt":"다음을 듣고 이어지는 말을 고르십시오.","body":"","options":[{"kind":"text","text":"앞으로 한 달간은 눈이 온다고 했어요.","art":null},{"kind":"text","text":"날씨 때문에 오늘 작업을 못 했어요.","art":null},{"kind":"text","text":"날씨도 좋은데 우리 산책할까요?","art":null},{"kind":"text","text":"날씨가 안 좋을까 봐 걱정이에요.","art":null}],"a":4,"m":"audio/35.mp3?v=a85d61a4649c7a48","art":null},{"n":36,"prompt":"잘 듣고 들은 내용과 관계있는 그림을 고르십시오.","body":"","options":[{"kind":"picture","text":"","art":"q/36_o1.png?v=c9305e2e72775ced"},{"kind":"picture","text":"","art":"q/36_o2.png?v=038044e52f460868"},{"kind":"picture","text":"","art":"q/36_o3.png?v=e4d1623a35e0a01d"},{"kind":"picture","text":"","art":"q/36_o4.png?v=2e6551c0735bf607"}],"a":3,"m":"audio/36.mp3?v=73760c546186ba56","art":null},{"n":37,"prompt":"잘 듣고 들은 내용과 관계있는 그림을 고르십시오.","body":"","options":[{"kind":"picture","text":"","art":"q/37_o1.png?v=91ebe694a475fdb0"},{"kind":"picture","text":"","art":"q/37_o2.png?v=a7a28ae9801eabd8"},{"kind":"picture","text":"","art":"q/37_o3.png?v=303e059746571603"},{"kind":"picture","text":"","art":"q/37_o4.png?v=5c52909b4dbd741d"}],"a":1,"m":"audio/37.mp3?v=edf3897970a0db7c","art":null},{"n":38,"prompt":"이야기를 듣고 질문에 알맞은 대답을 고르십시오.","body":"두 사람이 무엇에 대해 이야기하고 있는지 고르십시오.","options":[{"kind":"text","text":"눈 건강","art":null},{"kind":"text","text":"컴퓨터의 단점","art":null},{"kind":"text","text":"안경을 쓰는 이유","art":null},{"kind":"text","text":"컴퓨터로 할 수 있는 일","art":null}],"a":1,"m":"audio/38.mp3","art":null},{"n":39,"prompt":"이야기를 듣고 질문에 알맞은 대답을 고르십시오.","body":"대화를 듣고 내용과 같은 것을 고르십시오.","options":[{"kind":"text","text":"남자는 여자를 걱정하고 있습니다.","art":null},{"kind":"text","text":"여자는 몸이 아파서 늦게 왔습니다.","art":null},{"kind":"text","text":"두 사람은 내일 아침에 만날 겁니다.","art":null},{"kind":"text","text":"두 사람은 택시를 기다리고 있습니다.","art":null}],"a":1,"m":"audio/39.mp3","art":null},{"n":40,"prompt":"이야기를 듣고 질문에 알맞은 대답을 고르십시오.","body":"대화를 듣고 내용과 같은 것을 고르십시오.","options":[{"kind":"text","text":"남자는 여자에게 사진을 선물했습니다.","art":null},{"kind":"text","text":"여자는 사진 찍는 것을 안 좋아합니다.","art":null},{"kind":"text","text":"남자는 사진 찍는 것을 배우고 있습니다.","art":null},{"kind":"text","text":"여자는 주말에 사진을 찍으러 갈 겁니다.","art":null}],"a":4,"m":"audio/40.mp3","art":null}]});
